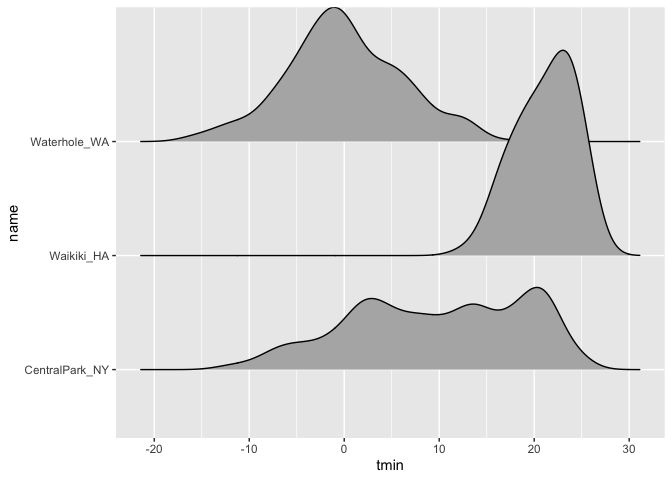
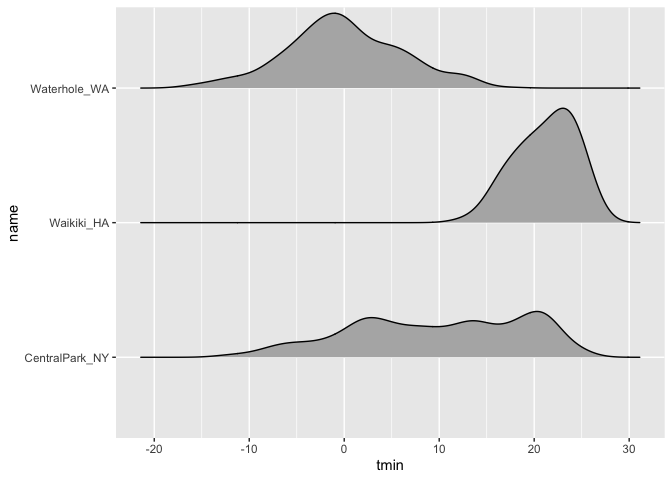
push

diff --git a/vis_ppglot1.md b/vis_ppglot1.md
@@ -309,7 +309,7 @@ Ridge plot- most popular plot od 2017
 ``` r
 weather_df %>% 
   ggplot(aes(x = tmin, y = name)) + 
-  geom_density_ridges() #density curves. load from ggridges package. 
+  geom_density_ridges(scale = 0.85) #density curves. load from ggridges package. 
 ```
 
     ## Picking joint bandwidth of 1.67
